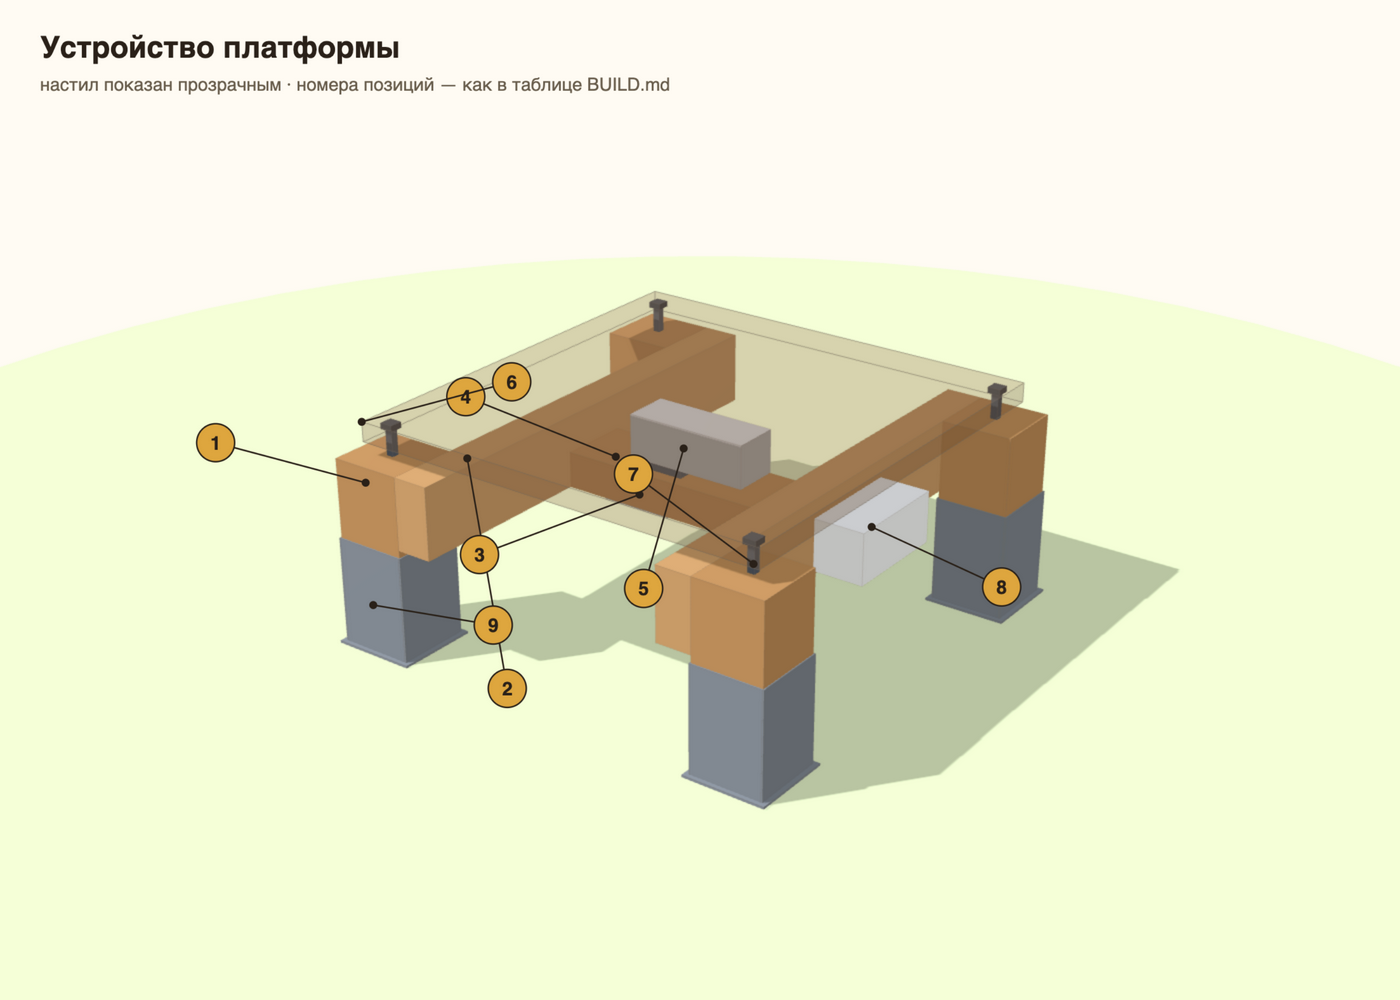
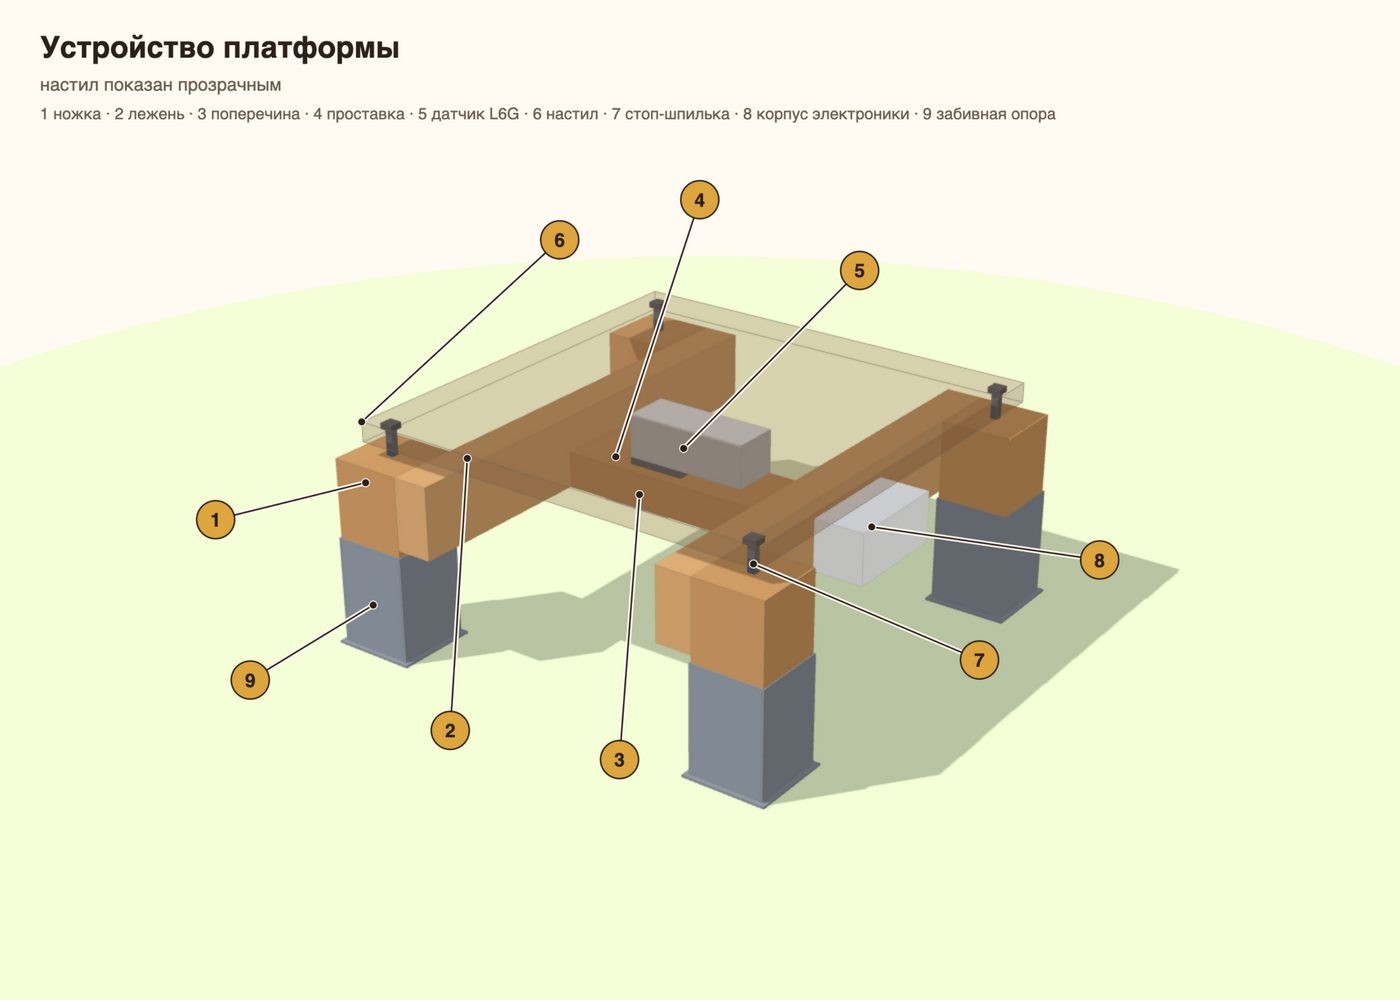
Чертежи и 3D-вид: читаемость — выноски без пересечений, легенда позиций на каждой картинке
- 3D-вид: выноски разведены по краям кадра (линии не пересекаются), светлая подложка под линии, легенда «1 ножка · 2 лежень · …» под заголовком
- вид сверху: убраны дубли размеров (650/550 мерились дважды) — по одному размеру на сторону
- оба чертежа: строка-легенда номеров позиций внизу

diff --git a/docs/tools/render3d.html b/docs/tools/render3d.html
@@ -12,12 +12,14 @@
   svg#ov { position: absolute; inset: 0; pointer-events: none; }
   .title { position: absolute; left: 40px; top: 30px; font-size: 30px; font-weight: 700; color: #2B2118; }
   .sub { position: absolute; left: 40px; top: 74px; font-size: 18px; color: #6B5D4B; }
+  .legend { position: absolute; left: 40px; top: 104px; font-size: 16px; color: #6B5D4B; }
 </style>
 </head>
 <body>
 <div id="wrap">
   <div class="title" id="title"></div>
   <div class="sub" id="sub"></div>
+  <div class="legend" id="legend"></div>
   <svg id="ov" width="1400" height="1000"></svg>
 </div>
 <script src="three.min.js"></script>
@@ -101,16 +103,17 @@ renderer.render(scene, camera);
 const title = document.getElementById('title'), sub = document.getElementById('sub');
 if (view === 'frame') {
   title.textContent = 'Устройство платформы';
-  sub.textContent = 'настил показан прозрачным · номера позиций — как в таблице BUILD.md';
-  // выноски с номерами
+  sub.textContent = 'настил показан прозрачным';
+  legend.textContent = '1 ножка · 2 лежень · 3 поперечина · 4 проставка · 5 датчик L6G · 6 настил · 7 стоп-шпилька · 8 корпус электроники · 9 забивная опора';
+  // выноски с номерами; подписи разведены по краям кадра, линии не пересекаются
   const ov = document.getElementById('ov');
   const spots = {
     1: [-275, -325, 240], 2: [-200, -220, 255], 3: [-60, -50, 180], 4: [-110, -35, 215],
     5: [0, -35, 255], 6: [-300, -300, 307], 7: [275, -275, 270], 8: [260, 0, 205], 9: [-275, -327, 70],
   };
   const offs = {
-    1: [-150, -40], 2: [40, 230], 3: [-160, 60], 4: [-150, -60], 5: [-40, 140],
-    6: [150, -40], 7: [-120, -90], 8: [130, 60], 9: [120, 20],
+    1: [-150, 37], 2: [-17, 272], 3: [-20, 265], 4: [84, -257], 5: [176, -178],
+    6: [198, -182], 7: [226, 96], 8: [228, 33], 9: [-123, 75],
   };
   let s = '';
   for (const [n, p] of Object.entries(spots)) {
@@ -118,8 +121,10 @@ if (view === 'frame') {
     const x = (v.x + 1) / 2 * W, y = (1 - v.y) / 2 * H;
     const [dx, dy] = offs[n];
     const lx = x + dx, ly = y + dy;
+    s += `<line x1="${x}" y1="${y}" x2="${lx}" y2="${ly}" stroke="#FFFBF2" stroke-width="5"/>`;
     s += `<line x1="${x}" y1="${y}" x2="${lx}" y2="${ly}" stroke="#2B2118" stroke-width="1.6"/>`;
-    s += `<circle cx="${x}" cy="${y}" r="4" fill="#2B2118"/>`;
+    s += `<circle cx="${x}" cy="${y}" r="4.5" fill="#FFFBF2"/>`;
+    s += `<circle cx="${x}" cy="${y}" r="3.5" fill="#2B2118"/>`;
     s += `<circle cx="${lx}" cy="${ly}" r="19" fill="#E8A317" stroke="#2B2118" stroke-width="1.5"/>`;
     s += `<text x="${lx}" y="${ly + 7}" font-size="19" font-weight="700" text-anchor="middle" fill="#2B2118">${n}</text>`;
   }

diff --git a/docs/tools/build_drawings.py b/docs/tools/build_drawings.py
@@ -47,7 +47,7 @@ def callout(o, x, y, n, dx, dy):
 
 # ---------------------------------------------------------------- вид спереди
 def front():
-    W, H = 1200, 1340
+    W, H = 1200, 1372
     S = 0.48
     OX, OY = 560, 760           # экранные координаты точки x=0, z=0
     X = lambda x: OX + x * S
@@ -100,6 +100,8 @@ def front():
     callout(o, X(275), Z(M.z_leg + 15), 7, 150, 40)
     o.append(f'<text x="{X(-320):.1f}" y="{Z(900):.1f}" fill="{MUTED}" font-size="13" text-anchor="end">наклон к летку 10 мм:</text>')
     o.append(f'<text x="{X(-320):.1f}" y="{Z(900) + 17:.1f}" fill="{MUTED}" font-size="13" text-anchor="end">передние ножки ниже задних</text>')
+    # легенда позиций (номера — как в таблице BUILD.md)
+    o.append(f'<text x="36" y="{H - 20}" fill="{MUTED}" font-size="14">1 ножка · 2 лежень · 3 поперечина · 4 проставка · 5 датчик · 6 настил · 7 стоп-шпилька · 9 опора</text>')
     o.append("</svg>")
     (IMG / "build-front.svg").write_text("\n".join(o), encoding="utf-8")
 
@@ -126,19 +128,18 @@ def top():
     o.append(f'<text x="{X(0):.1f}" y="{Y(-M.HIVE_Y / 2) - 8:.1f}" fill="#A8862E" font-size="13" text-anchor="middle">контур дна улья 550×550</text>')
     # стрелка «перед / леток»
     o.append(f'<text x="{X(0):.1f}" y="{Y(-560):.1f}" fill="{MUTED}" font-size="14" font-weight="700" text-anchor="middle">▼ перед (леток)</text>')
-    # размеры
+    # размеры — по одному с каждой стороны, без дублей
     dim_v(o, Y(325), Y(-325), X(-500), "650", ext_from=X(-325))
-    dim_v(o, Y(275), Y(-275), X(-420), "550", ext_from=X(-325))
-    o.append(f'<text x="{X(-420) - 8:.1f}" y="{Y(0) + 24:.1f}" fill="{MUTED}" font-size="12" text-anchor="end">оси ножек</text>')
     dim_v(o, Y(300), Y(-300), X(470), "600 настил", ext_from=X(300), side="right")
-    dim_h(o, X(-325), X(325), Y(-325) + 60, "650", ext_from=Y(-325))
-    dim_h(o, X(-275), X(275), Y(-325) + 100, "550 между осями ножек", ext_from=Y(-275))
+    dim_h(o, X(-275), X(275), Y(-325) + 60, "550 между осями ножек", ext_from=Y(-275))
     callout(o, X(-275), Y(-275), 1, -110, 60)
     callout(o, X(200), Y(220), 2, -70, -55)
     callout(o, X(-130), Y(-90), 3, 150, 60)
     callout(o, X(0), Y(0), 5, 40, -110)
     callout(o, X(-275), Y(275), 7, -90, -60)
     callout(o, X(295), Y(75), 8, 60, -90)
+    # легенда позиций (номера — как в таблице BUILD.md)
+    o.append(f'<text x="36" y="{H - 28}" fill="{MUTED}" font-size="14">1 ножка · 2 лежень · 3 поперечина · 5 датчик · 7 стоп-шпилька · 8 корпус электроники</text>')
     o.append("</svg>")
     (IMG / "build-top.svg").write_text("\n".join(o), encoding="utf-8")
 
